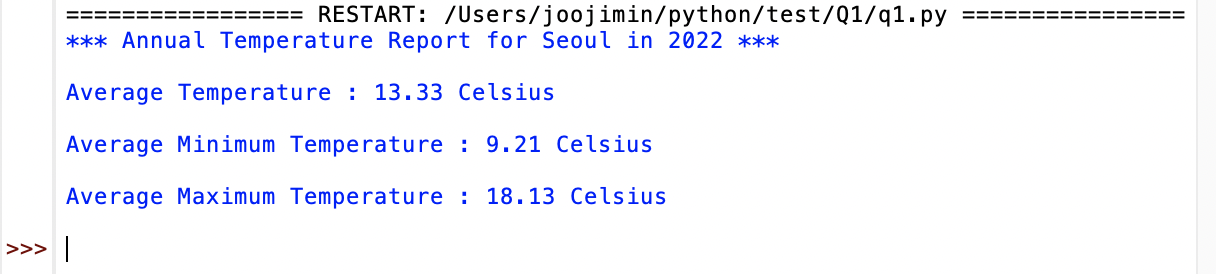
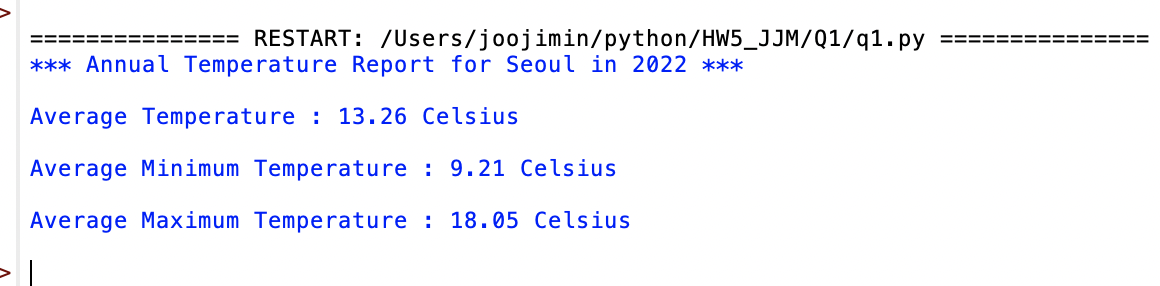
fix hw1

diff --git a/Q1/q1.py b/Q1/q1.py
@@ -13,12 +13,14 @@ def main() :
     count = 0
 
     for row in data :
-        sum_avg += float(row[2])
-        sum_max += float(row[-1])
-        if row[-2] == '' :
+        
+        if '' in row :
             continue
-        else : sum_min += float(row[-2])
-        count += 1
+        else :
+            sum_min += float(row[-2])
+            sum_avg += float(row[2])
+            sum_max += float(row[-1])
+            count += 1
 
     avg = sum_avg/count
     min_avg = sum_min / count
